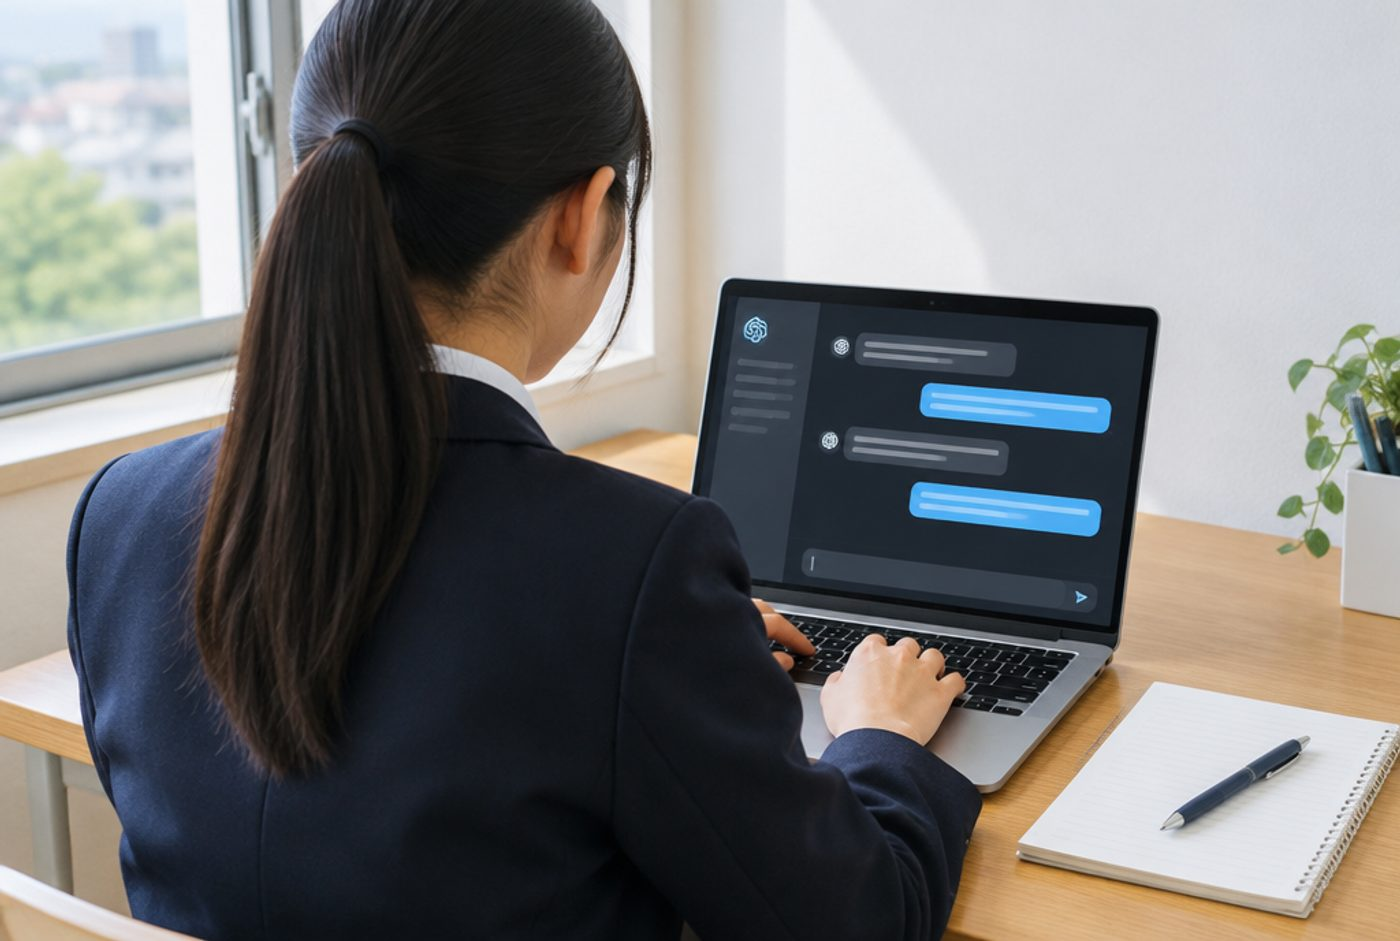
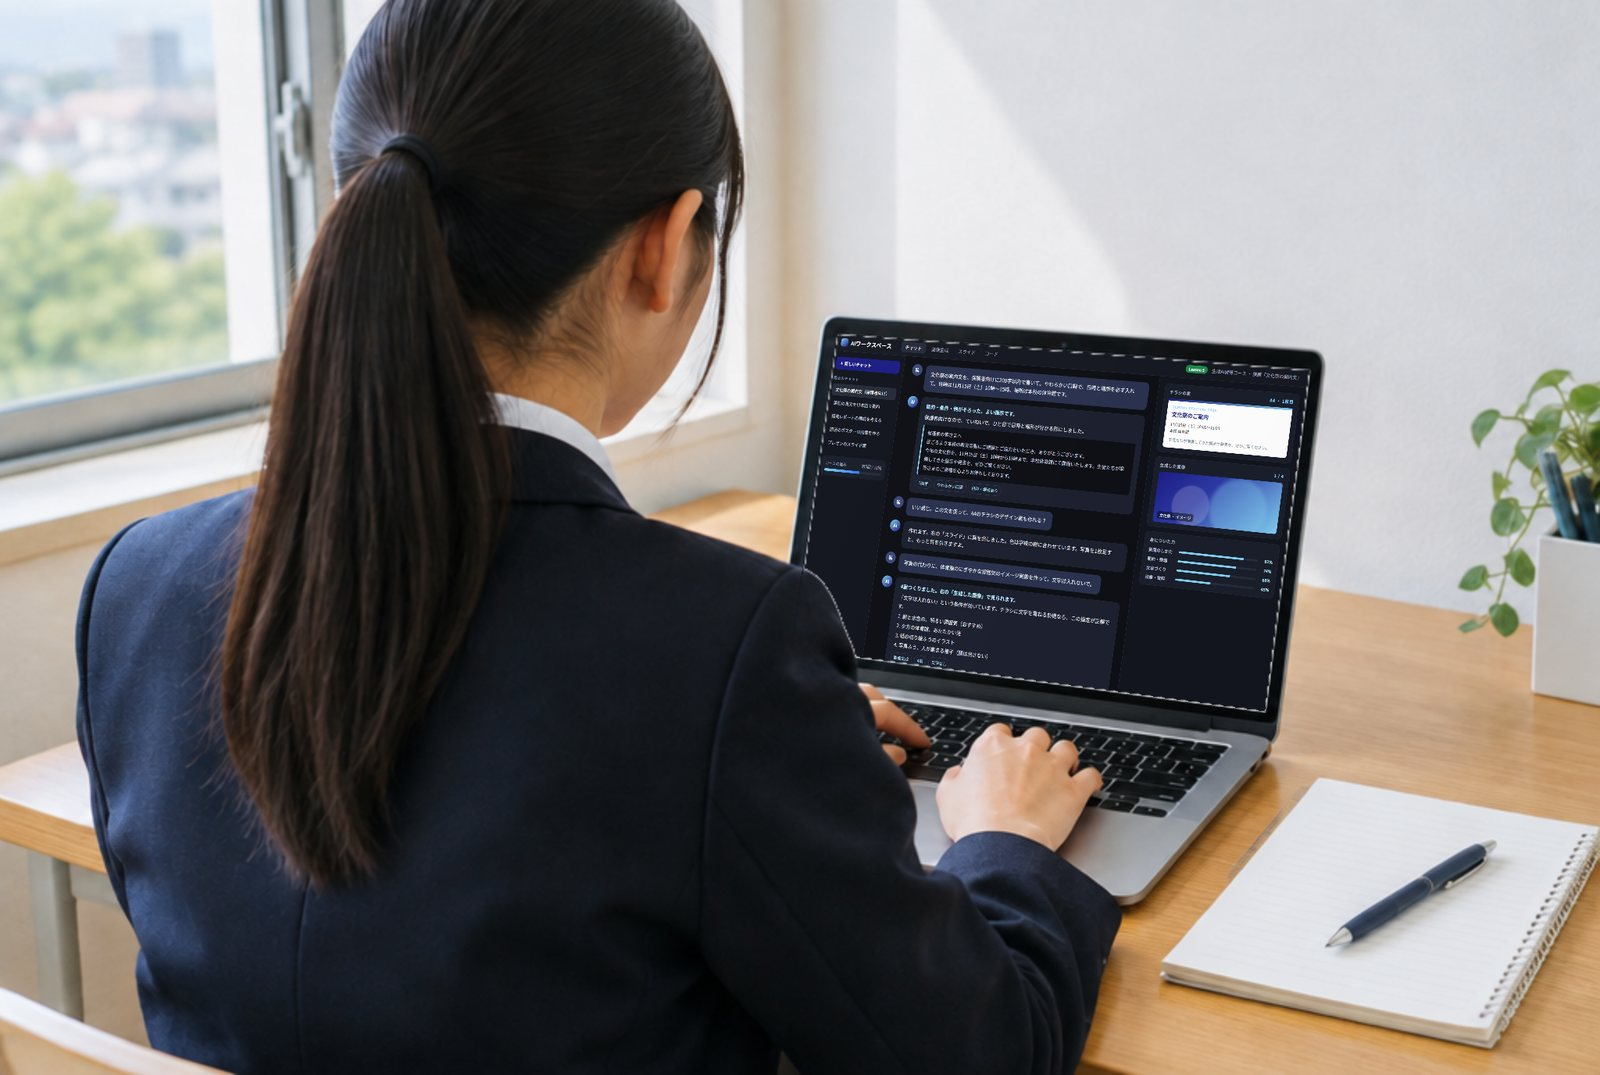
コース紹介のカードに「詳細はこちら」ボタン／写真を差し替え（メタバース・ドローン・メディア＝男子、声優・DTM＝別の女子）／生成AIの画面を本物のAIワークスペース画面に

diff --git a/index.html b/index.html
@@ -12,7 +12,7 @@
 <link rel="preconnect" href="https://fonts.gstatic.com" crossorigin>
 <link rel="stylesheet" href="https://fonts.googleapis.com/css2?family=Noto+Sans+JP:wght@400;500;700&family=Quicksand:wght@500;600;700&display=swap">
 <link rel="stylesheet" href="https://cdnjs.cloudflare.com/ajax/libs/font-awesome/6.5.2/css/all.min.css">
-<link rel="stylesheet" href="assets/css/style.css?v=202610280807">
+<link rel="stylesheet" href="assets/css/style.css?v=202610280827">
 </head>
 <body id="top" class="home">
 
@@ -56,9 +56,9 @@
 <!-- ===== ヒーロー ===== -->
 <section class="hero" id="hero">
 	<div class="hero-bg">
-		<img src="assets/img/hero_poster.jpg?v=202610280807" alt="" class="hero-still">
-		<video id="heroVideo" class="hero-video" autoplay muted loop playsinline preload="auto" poster="assets/img/hero_poster.jpg?v=202610280807" aria-hidden="true">
-			<source src="assets/img/hero_video.mp4?v=202610280807" type="video/mp4">
+		<img src="assets/img/hero_poster.jpg?v=202610280827" alt="" class="hero-still">
+		<video id="heroVideo" class="hero-video" autoplay muted loop playsinline preload="auto" poster="assets/img/hero_poster.jpg?v=202610280827" aria-hidden="true">
+			<source src="assets/img/hero_video.mp4?v=202610280827" type="video/mp4">
 		</video>
 	</div>
 	<div class="hero-inner" id="heroInner">
@@ -168,7 +168,7 @@
 		</div>
 		<div class="course-visual">
 			<div class="cv-stage">
-				<img src="assets/img/course_tools.jpg?v=202610280807" alt="ドローン・VR・マイク・タブレット・カメラ・鍵盤など、コースで使う道具">
+				<img src="assets/img/course_tools.jpg?v=202610280827" alt="ドローン・VR・マイク・タブレット・カメラ・鍵盤など、コースで使う道具">
 				<svg class="cv-label" viewBox="0 0 1344 390" aria-hidden="true">
 					<defs>
 						<linearGradient id="cvScreen" x1="0" y1="0" x2="0.3" y2="1"><stop offset="0" stop-color="#232596"/><stop offset="1" stop-color="#0B0D3F"/></linearGradient>
@@ -192,15 +192,15 @@
 			<p class="cap">生成AIからドローン、声優まで。「好き」が、仕事の入口になる。</p>
 		</div>
 		<div class="courses">
-			<a href="course-ai.html" class="course"><div class="ic"><i class="fa-solid fa-wand-magic-sparkles"></i></div><h3>生成AI習得</h3><p>Claude Code、ChatGPT など。質問する・まとめる・書く・作るを実践し、AIを「使う側」になる基礎から応用まで。</p></a>
-			<a href="course-drone.html" class="course"><div class="ic"><i class="fa-solid fa-helicopter"></i></div><h3>ドローン</h3><p>操縦の基礎から、国家ライセンスの取得、空撮・点検などの仕事の現場まで。</p></a>
-			<a href="course-metaverse.html" class="course"><div class="ic"><i class="fa-solid fa-vr-cardboard"></i></div><h3>メタバース・VR・AR</h3><p>仮想空間のつくり方と使い方を学び、自分のワールドを形にする。</p></a>
-			<a href="course-dtm.html" class="course"><div class="ic"><i class="fa-solid fa-music"></i></div><h3>DTM（音楽制作）</h3><p>パソコンで作曲・編曲。配信までを体験する音楽づくりの入門。</p></a>
-			<a href="course-voice.html" class="course"><div class="ic"><i class="fa-solid fa-microphone-lines"></i></div><h3>声優</h3><p>発声・滑舌・演技の基礎から、アフレコやオーディションに向けた実践まで。プロの声優が直接指導します。</p></a>
-			<a href="course-media.html" class="course"><div class="ic"><i class="fa-solid fa-clapperboard"></i></div><h3>メディアクリエイター</h3><p>動画の企画・撮影・編集・発信。伝わるコンテンツの作り方。</p></a>
-			<a href="course-sns.html" class="course"><div class="ic"><i class="fa-solid fa-hashtag"></i></div><h3>SNSマーケティング</h3><p>見てもらう仕組みを学び、企画から分析まで実際に運用してみる。</p></a>
-			<a href="course-esports.html" class="course"><div class="ic"><i class="fa-solid fa-gamepad"></i></div><h3>eスポーツ</h3><p>チームで戦う経験を通じて、戦略・分析・コミュニケーションの力を育てる。</p></a>
-			<a href="course-business.html" class="course"><div class="ic"><i class="fa-solid fa-lightbulb"></i></div><h3>ビジネス・起業</h3><p>小さく考え、小さく試す。自分のアイデアを事業にする一歩。</p></a>
+			<a href="course-ai.html" class="course"><div class="ic"><i class="fa-solid fa-wand-magic-sparkles"></i></div><h3>生成AI習得</h3><p>Claude Code、ChatGPT など。質問する・まとめる・書く・作るを実践し、AIを「使う側」になる基礎から応用まで。</p><span class="more">詳細はこちら<i class="fa-solid fa-arrow-right"></i></span></a>
+			<a href="course-drone.html" class="course"><div class="ic"><i class="fa-solid fa-helicopter"></i></div><h3>ドローン</h3><p>操縦の基礎から、国家ライセンスの取得、空撮・点検などの仕事の現場まで。</p><span class="more">詳細はこちら<i class="fa-solid fa-arrow-right"></i></span></a>
+			<a href="course-metaverse.html" class="course"><div class="ic"><i class="fa-solid fa-vr-cardboard"></i></div><h3>メタバース・VR・AR</h3><p>仮想空間のつくり方と使い方を学び、自分のワールドを形にする。</p><span class="more">詳細はこちら<i class="fa-solid fa-arrow-right"></i></span></a>
+			<a href="course-dtm.html" class="course"><div class="ic"><i class="fa-solid fa-music"></i></div><h3>DTM（音楽制作）</h3><p>パソコンで作曲・編曲。配信までを体験する音楽づくりの入門。</p><span class="more">詳細はこちら<i class="fa-solid fa-arrow-right"></i></span></a>
+			<a href="course-voice.html" class="course"><div class="ic"><i class="fa-solid fa-microphone-lines"></i></div><h3>声優</h3><p>発声・滑舌・演技の基礎から、アフレコやオーディションに向けた実践まで。プロの声優が直接指導します。</p><span class="more">詳細はこちら<i class="fa-solid fa-arrow-right"></i></span></a>
+			<a href="course-media.html" class="course"><div class="ic"><i class="fa-solid fa-clapperboard"></i></div><h3>メディアクリエイター</h3><p>動画の企画・撮影・編集・発信。伝わるコンテンツの作り方。</p><span class="more">詳細はこちら<i class="fa-solid fa-arrow-right"></i></span></a>
+			<a href="course-sns.html" class="course"><div class="ic"><i class="fa-solid fa-hashtag"></i></div><h3>SNSマーケティング</h3><p>見てもらう仕組みを学び、企画から分析まで実際に運用してみる。</p><span class="more">詳細はこちら<i class="fa-solid fa-arrow-right"></i></span></a>
+			<a href="course-esports.html" class="course"><div class="ic"><i class="fa-solid fa-gamepad"></i></div><h3>eスポーツ</h3><p>チームで戦う経験を通じて、戦略・分析・コミュニケーションの力を育てる。</p><span class="more">詳細はこちら<i class="fa-solid fa-arrow-right"></i></span></a>
+			<a href="course-business.html" class="course"><div class="ic"><i class="fa-solid fa-lightbulb"></i></div><h3>ビジネス・起業</h3><p>小さく考え、小さく試す。自分のアイデアを事業にする一歩。</p><span class="more">詳細はこちら<i class="fa-solid fa-arrow-right"></i></span></a>
 		</div>
 		<p class="note">※ カードを押すと、各コースの詳細ページが開きます。掲載するコースと開講時期は調整中で、学校ごとに開講するコースを選んでいただけます。</p>
 	</div>
@@ -216,7 +216,7 @@
 		</div>
 
 		<div class="split">
-			<div class="split-img"><img src="assets/img/classroom.jpg?v=202610280807" alt="教室で授業を受ける生徒たち"></div>
+			<div class="split-img"><img src="assets/img/classroom.jpg?v=202610280827" alt="教室で授業を受ける生徒たち"></div>
 			<div class="split-txt">
 				<h3>ハイブリッド授業</h3>
 				<p>プロ講師の授業をオンラインで各校舎に配信し、教室には学校の先生が立ち会います。講師が教室を訪れる対面の回を組み合わせることで、画面越しだけでは得られない体験も残します。授業は録画してアーカイブにし、欠席した生徒の学び直しにも使えます。</p>
@@ -224,7 +224,7 @@
 		</div>
 
 		<div class="split rev">
-			<div class="split-img"><img src="assets/img/tablet.jpg?v=202610280807" alt="タブレットで学ぶ"></div>
+			<div class="split-img"><img src="assets/img/tablet.jpg?v=202610280827" alt="タブレットで学ぶ"></div>
 			<div class="split-txt">
 				<h3>3つの独自システム</h3>
 				<dl class="sys-list">
@@ -255,7 +255,7 @@
 			<p class="lead">あなたの専門を、全国の高校生へ。<br class="pc">教えること以外は、METAアカデミーが引き受けます。</p>
 		</div>
 		<div class="split">
-			<div class="split-img"><img src="assets/img/lecturer.jpg?v=202610280807" alt="オンラインで授業を配信する講師"></div>
+			<div class="split-img"><img src="assets/img/lecturer.jpg?v=202610280827" alt="オンラインで授業を配信する講師"></div>
 			<div class="split-txt">
 				<ul class="check-list">
 					<li><strong>授業に集中できる</strong><span>学校との調整・契約・請求・生徒への連絡は、すべてMETAが代行します。</span></li>
@@ -399,6 +399,6 @@
 </footer>
 
 <a href="#top" class="to-top" id="toTop" aria-label="ページの先頭へ"><i class="fa-solid fa-chevron-up"></i></a>
-<script src="assets/js/main.js?v=202610280807"></script>
+<script src="assets/js/main.js?v=202610280827"></script>
 </body>
 </html>

diff --git a/course-media.html b/course-media.html
@@ -12,7 +12,7 @@
 <link rel="preconnect" href="https://fonts.gstatic.com" crossorigin>
 <link rel="stylesheet" href="https://fonts.googleapis.com/css2?family=Noto+Sans+JP:wght@400;500;700&family=Quicksand:wght@500;600;700&display=swap">
 <link rel="stylesheet" href="https://cdnjs.cloudflare.com/ajax/libs/font-awesome/6.5.2/css/all.min.css">
-<link rel="stylesheet" href="assets/css/style.css?v=202610280807">
+<link rel="stylesheet" href="assets/css/style.css?v=202610280827">
 </head>
 <body id="top" class="sub">
 
@@ -67,7 +67,7 @@
 					<a href="index.html#student" class="btn btn-outline"><i class="fa-solid fa-user-graduate"></i>生徒・保護者の方へ</a>
 				</div>
 			</div>
-			<div class="ph-img"><img src="assets/img/course-media.jpg?v=202610280807" alt="メディアクリエイターコースのイメージ"></div>
+			<div class="ph-img"><img src="assets/img/course-media.jpg?v=202610280827" alt="メディアクリエイターコースのイメージ"></div>
 		</div>
 	</div>
 </section>
@@ -191,6 +191,6 @@
 </footer>
 
 <a href="index.html#top" class="to-top" id="toTop" aria-label="ページの先頭へ"><i class="fa-solid fa-chevron-up"></i></a>
-<script src="assets/js/main.js?v=202610280807"></script>
+<script src="assets/js/main.js?v=202610280827"></script>
 </body>
 </html>

diff --git a/course-metaverse.html b/course-metaverse.html
@@ -12,7 +12,7 @@
 <link rel="preconnect" href="https://fonts.gstatic.com" crossorigin>
 <link rel="stylesheet" href="https://fonts.googleapis.com/css2?family=Noto+Sans+JP:wght@400;500;700&family=Quicksand:wght@500;600;700&display=swap">
 <link rel="stylesheet" href="https://cdnjs.cloudflare.com/ajax/libs/font-awesome/6.5.2/css/all.min.css">
-<link rel="stylesheet" href="assets/css/style.css?v=202610280807">
+<link rel="stylesheet" href="assets/css/style.css?v=202610280827">
 </head>
 <body id="top" class="sub">
 
@@ -67,7 +67,7 @@
 					<a href="index.html#student" class="btn btn-outline"><i class="fa-solid fa-user-graduate"></i>生徒・保護者の方へ</a>
 				</div>
 			</div>
-			<div class="ph-img"><img src="assets/img/course-metaverse.jpg?v=202610280807" alt="メタバース・VR・ARコースのイメージ"></div>
+			<div class="ph-img"><img src="assets/img/course-metaverse.jpg?v=202610280827" alt="メタバース・VR・ARコースのイメージ"></div>
 		</div>
 	</div>
 </section>
@@ -190,6 +190,6 @@
 </footer>
 
 <a href="index.html#top" class="to-top" id="toTop" aria-label="ページの先頭へ"><i class="fa-solid fa-chevron-up"></i></a>
-<script src="assets/js/main.js?v=202610280807"></script>
+<script src="assets/js/main.js?v=202610280827"></script>
 </body>
 </html>

diff --git a/course-business.html b/course-business.html
@@ -12,7 +12,7 @@
 <link rel="preconnect" href="https://fonts.gstatic.com" crossorigin>
 <link rel="stylesheet" href="https://fonts.googleapis.com/css2?family=Noto+Sans+JP:wght@400;500;700&family=Quicksand:wght@500;600;700&display=swap">
 <link rel="stylesheet" href="https://cdnjs.cloudflare.com/ajax/libs/font-awesome/6.5.2/css/all.min.css">
-<link rel="stylesheet" href="assets/css/style.css?v=202610280807">
+<link rel="stylesheet" href="assets/css/style.css?v=202610280827">
 </head>
 <body id="top" class="sub">
 
@@ -67,7 +67,7 @@
 					<a href="index.html#student" class="btn btn-outline"><i class="fa-solid fa-user-graduate"></i>生徒・保護者の方へ</a>
 				</div>
 			</div>
-			<div class="ph-img"><img src="assets/img/course-business.jpg?v=202610280807" alt="ビジネス・起業コースのイメージ"></div>
+			<div class="ph-img"><img src="assets/img/course-business.jpg?v=202610280827" alt="ビジネス・起業コースのイメージ"></div>
 		</div>
 	</div>
 </section>
@@ -191,6 +191,6 @@
 </footer>
 
 <a href="index.html#top" class="to-top" id="toTop" aria-label="ページの先頭へ"><i class="fa-solid fa-chevron-up"></i></a>
-<script src="assets/js/main.js?v=202610280807"></script>
+<script src="assets/js/main.js?v=202610280827"></script>
 </body>
 </html>

diff --git a/course-sns.html b/course-sns.html
@@ -12,7 +12,7 @@
 <link rel="preconnect" href="https://fonts.gstatic.com" crossorigin>
 <link rel="stylesheet" href="https://fonts.googleapis.com/css2?family=Noto+Sans+JP:wght@400;500;700&family=Quicksand:wght@500;600;700&display=swap">
 <link rel="stylesheet" href="https://cdnjs.cloudflare.com/ajax/libs/font-awesome/6.5.2/css/all.min.css">
-<link rel="stylesheet" href="assets/css/style.css?v=202610280807">
+<link rel="stylesheet" href="assets/css/style.css?v=202610280827">
 </head>
 <body id="top" class="sub">
 
@@ -67,7 +67,7 @@
 					<a href="index.html#student" class="btn btn-outline"><i class="fa-solid fa-user-graduate"></i>生徒・保護者の方へ</a>
 				</div>
 			</div>
-			<div class="ph-img"><img src="assets/img/course-sns.jpg?v=202610280807" alt="SNSマーケティングコースのイメージ"></div>
+			<div class="ph-img"><img src="assets/img/course-sns.jpg?v=202610280827" alt="SNSマーケティングコースのイメージ"></div>
 		</div>
 	</div>
 </section>
@@ -191,6 +191,6 @@
 </footer>
 
 <a href="index.html#top" class="to-top" id="toTop" aria-label="ページの先頭へ"><i class="fa-solid fa-chevron-up"></i></a>
-<script src="assets/js/main.js?v=202610280807"></script>
+<script src="assets/js/main.js?v=202610280827"></script>
 </body>
 </html>

diff --git a/course-dtm.html b/course-dtm.html
@@ -12,7 +12,7 @@
 <link rel="preconnect" href="https://fonts.gstatic.com" crossorigin>
 <link rel="stylesheet" href="https://fonts.googleapis.com/css2?family=Noto+Sans+JP:wght@400;500;700&family=Quicksand:wght@500;600;700&display=swap">
 <link rel="stylesheet" href="https://cdnjs.cloudflare.com/ajax/libs/font-awesome/6.5.2/css/all.min.css">
-<link rel="stylesheet" href="assets/css/style.css?v=202610280807">
+<link rel="stylesheet" href="assets/css/style.css?v=202610280827">
 </head>
 <body id="top" class="sub">
 
@@ -67,7 +67,7 @@
 					<a href="index.html#student" class="btn btn-outline"><i class="fa-solid fa-user-graduate"></i>生徒・保護者の方へ</a>
 				</div>
 			</div>
-			<div class="ph-img"><img src="assets/img/course-dtm.jpg?v=202610280807" alt="DTM（音楽制作）コースのイメージ"></div>
+			<div class="ph-img"><img src="assets/img/course-dtm.jpg?v=202610280827" alt="DTM（音楽制作）コースのイメージ"></div>
 		</div>
 	</div>
 </section>
@@ -191,6 +191,6 @@
 </footer>
 
 <a href="index.html#top" class="to-top" id="toTop" aria-label="ページの先頭へ"><i class="fa-solid fa-chevron-up"></i></a>
-<script src="assets/js/main.js?v=202610280807"></script>
+<script src="assets/js/main.js?v=202610280827"></script>
 </body>
 </html>

diff --git a/course-esports.html b/course-esports.html
@@ -12,7 +12,7 @@
 <link rel="preconnect" href="https://fonts.gstatic.com" crossorigin>
 <link rel="stylesheet" href="https://fonts.googleapis.com/css2?family=Noto+Sans+JP:wght@400;500;700&family=Quicksand:wght@500;600;700&display=swap">
 <link rel="stylesheet" href="https://cdnjs.cloudflare.com/ajax/libs/font-awesome/6.5.2/css/all.min.css">
-<link rel="stylesheet" href="assets/css/style.css?v=202610280807">
+<link rel="stylesheet" href="assets/css/style.css?v=202610280827">
 </head>
 <body id="top" class="sub">
 
@@ -67,7 +67,7 @@
 					<a href="index.html#student" class="btn btn-outline"><i class="fa-solid fa-user-graduate"></i>生徒・保護者の方へ</a>
 				</div>
 			</div>
-			<div class="ph-img"><img src="assets/img/course-esports.jpg?v=202610280807" alt="eスポーツコースのイメージ"></div>
+			<div class="ph-img"><img src="assets/img/course-esports.jpg?v=202610280827" alt="eスポーツコースのイメージ"></div>
 		</div>
 	</div>
 </section>
@@ -191,6 +191,6 @@
 </footer>
 
 <a href="index.html#top" class="to-top" id="toTop" aria-label="ページの先頭へ"><i class="fa-solid fa-chevron-up"></i></a>
-<script src="assets/js/main.js?v=202610280807"></script>
+<script src="assets/js/main.js?v=202610280827"></script>
 </body>
 </html>

diff --git a/course-drone.html b/course-drone.html
@@ -12,7 +12,7 @@
 <link rel="preconnect" href="https://fonts.gstatic.com" crossorigin>
 <link rel="stylesheet" href="https://fonts.googleapis.com/css2?family=Noto+Sans+JP:wght@400;500;700&family=Quicksand:wght@500;600;700&display=swap">
 <link rel="stylesheet" href="https://cdnjs.cloudflare.com/ajax/libs/font-awesome/6.5.2/css/all.min.css">
-<link rel="stylesheet" href="assets/css/style.css?v=202610280807">
+<link rel="stylesheet" href="assets/css/style.css?v=202610280827">
 </head>
 <body id="top" class="sub">
 
@@ -67,7 +67,7 @@
 					<a href="index.html#student" class="btn btn-outline"><i class="fa-solid fa-user-graduate"></i>生徒・保護者の方へ</a>
 				</div>
 			</div>
-			<div class="ph-img"><img src="assets/img/course-drone.jpg?v=202610280807" alt="ドローンコースのイメージ"></div>
+			<div class="ph-img"><img src="assets/img/course-drone.jpg?v=202610280827" alt="ドローンコースのイメージ"></div>
 		</div>
 	</div>
 </section>
@@ -190,6 +190,6 @@
 </footer>
 
 <a href="index.html#top" class="to-top" id="toTop" aria-label="ページの先頭へ"><i class="fa-solid fa-chevron-up"></i></a>
-<script src="assets/js/main.js?v=202610280807"></script>
+<script src="assets/js/main.js?v=202610280827"></script>
 </body>
 </html>

diff --git a/course-ai.html b/course-ai.html
@@ -12,7 +12,7 @@
 <link rel="preconnect" href="https://fonts.gstatic.com" crossorigin>
 <link rel="stylesheet" href="https://fonts.googleapis.com/css2?family=Noto+Sans+JP:wght@400;500;700&family=Quicksand:wght@500;600;700&display=swap">
 <link rel="stylesheet" href="https://cdnjs.cloudflare.com/ajax/libs/font-awesome/6.5.2/css/all.min.css">
-<link rel="stylesheet" href="assets/css/style.css?v=202610280807">
+<link rel="stylesheet" href="assets/css/style.css?v=202610280827">
 </head>
 <body id="top" class="sub">
 
@@ -67,7 +67,7 @@
 					<a href="index.html#student" class="btn btn-outline"><i class="fa-solid fa-user-graduate"></i>生徒・保護者の方へ</a>
 				</div>
 			</div>
-			<div class="ph-img"><img src="assets/img/course-ai.jpg?v=202610280807" alt="生成AI習得コースのイメージ"></div>
+			<div class="ph-img"><img src="assets/img/course-ai.jpg?v=202610280827" alt="生成AI習得コースのイメージ"></div>
 		</div>
 	</div>
 </section>
@@ -191,6 +191,6 @@
 </footer>
 
 <a href="index.html#top" class="to-top" id="toTop" aria-label="ページの先頭へ"><i class="fa-solid fa-chevron-up"></i></a>
-<script src="assets/js/main.js?v=202610280807"></script>
+<script src="assets/js/main.js?v=202610280827"></script>
 </body>
 </html>

diff --git a/course-voice.html b/course-voice.html
@@ -12,7 +12,7 @@
 <link rel="preconnect" href="https://fonts.gstatic.com" crossorigin>
 <link rel="stylesheet" href="https://fonts.googleapis.com/css2?family=Noto+Sans+JP:wght@400;500;700&family=Quicksand:wght@500;600;700&display=swap">
 <link rel="stylesheet" href="https://cdnjs.cloudflare.com/ajax/libs/font-awesome/6.5.2/css/all.min.css">
-<link rel="stylesheet" href="assets/css/style.css?v=202610280807">
+<link rel="stylesheet" href="assets/css/style.css?v=202610280827">
 </head>
 <body id="top" class="sub">
 
@@ -67,7 +67,7 @@
 					<a href="index.html#student" class="btn btn-outline"><i class="fa-solid fa-user-graduate"></i>生徒・保護者の方へ</a>
 				</div>
 			</div>
-			<div class="ph-img"><img src="assets/img/course-voice.jpg?v=202610280807" alt="声優コースのイメージ"></div>
+			<div class="ph-img"><img src="assets/img/course-voice.jpg?v=202610280827" alt="声優コースのイメージ"></div>
 		</div>
 	</div>
 </section>
@@ -191,6 +191,6 @@
 </footer>
 
 <a href="index.html#top" class="to-top" id="toTop" aria-label="ページの先頭へ"><i class="fa-solid fa-chevron-up"></i></a>
-<script src="assets/js/main.js?v=202610280807"></script>
+<script src="assets/js/main.js?v=202610280827"></script>
 </body>
 </html>

diff --git a/assets/css/style.css b/assets/css/style.css
@@ -412,3 +412,10 @@ body.sub main { padding-top: calc(var(--band-h) + 100px); }
 	.cd-h { font-size: 19px; }
 	.mini-courses { grid-template-columns: 1fr; }
 }
+
+/* コース紹介のカード：「詳細はこちら」ボタン（2026-10-28） */
+.course { display: flex; flex-direction: column; }
+.course p { flex: 1; }
+.course .more { display: inline-flex; align-items: center; gap: 8px; align-self: flex-start; margin-top: 16px; background: var(--navy); color: #fff; font-size: 13px; font-weight: 700; padding: 8px 16px; border-radius: 999px; transition: background .2s, gap .2s; }
+.course .more i { font-size: 11px; }
+.course:hover .more { background: var(--navy-2); gap: 12px; }
